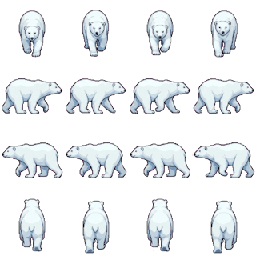
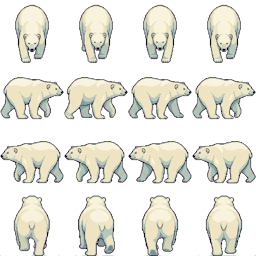
Update asset handling and animal movement logic: Enabled HD tile assets for improved graphics fidelity and refined animal movement calculations by explicitly defining turn angle types. Added behavior stats retrieval for enhanced animal escape mechanics.

diff --git a/client/src/utils/dualGridAutotile.ts b/client/src/utils/dualGridAutotile.ts
@@ -21,7 +21,7 @@ type AssetModule = { default: string };
  * Enable this to automatically prefer same-named PNGs in `tiles/new/hd/`.
  * Missing HD files gracefully fall back to `tiles/new/`.
  */
-export const USE_HD_TILE_ASSETS = false;
+export const USE_HD_TILE_ASSETS = true;
 
 /**
  * Optional per-file override when global HD is disabled.

diff --git a/server/src/wild_animal_npc/core.rs b/server/src/wild_animal_npc/core.rs
@@ -2541,7 +2541,7 @@ pub fn move_towards_target(ctx: &ReducerContext, animal: &mut WildAnimal, target
 
             // Deterministic side step based on animal id to prevent herd-wide lockstep.
             let side_sign = if animal.id % 2 == 0 { 1.0 } else { -1.0 };
-            let turn_angle = 0.75 * side_sign; // ~43 degrees
+            let turn_angle: f32 = 0.75 * side_sign; // ~43 degrees
             let sin_t = turn_angle.sin();
             let cos_t = turn_angle.cos();
             let steer_x = away_x * cos_t - away_y * sin_t;
@@ -2550,6 +2550,7 @@ pub fn move_towards_target(ctx: &ReducerContext, animal: &mut WildAnimal, target
             animal.direction_x = steer_x;
             animal.direction_y = steer_y;
 
+            let stats = animal.species.get_behavior().get_stats();
             let escape_distance = stats.patrol_radius.clamp(120.0, 320.0);
             let mut escape_x = (start_x + steer_x * escape_distance).clamp(50.0, WORLD_WIDTH_PX - 50.0);
             let mut escape_y = (start_y + steer_y * escape_distance).clamp(50.0, WORLD_HEIGHT_PX - 50.0);
